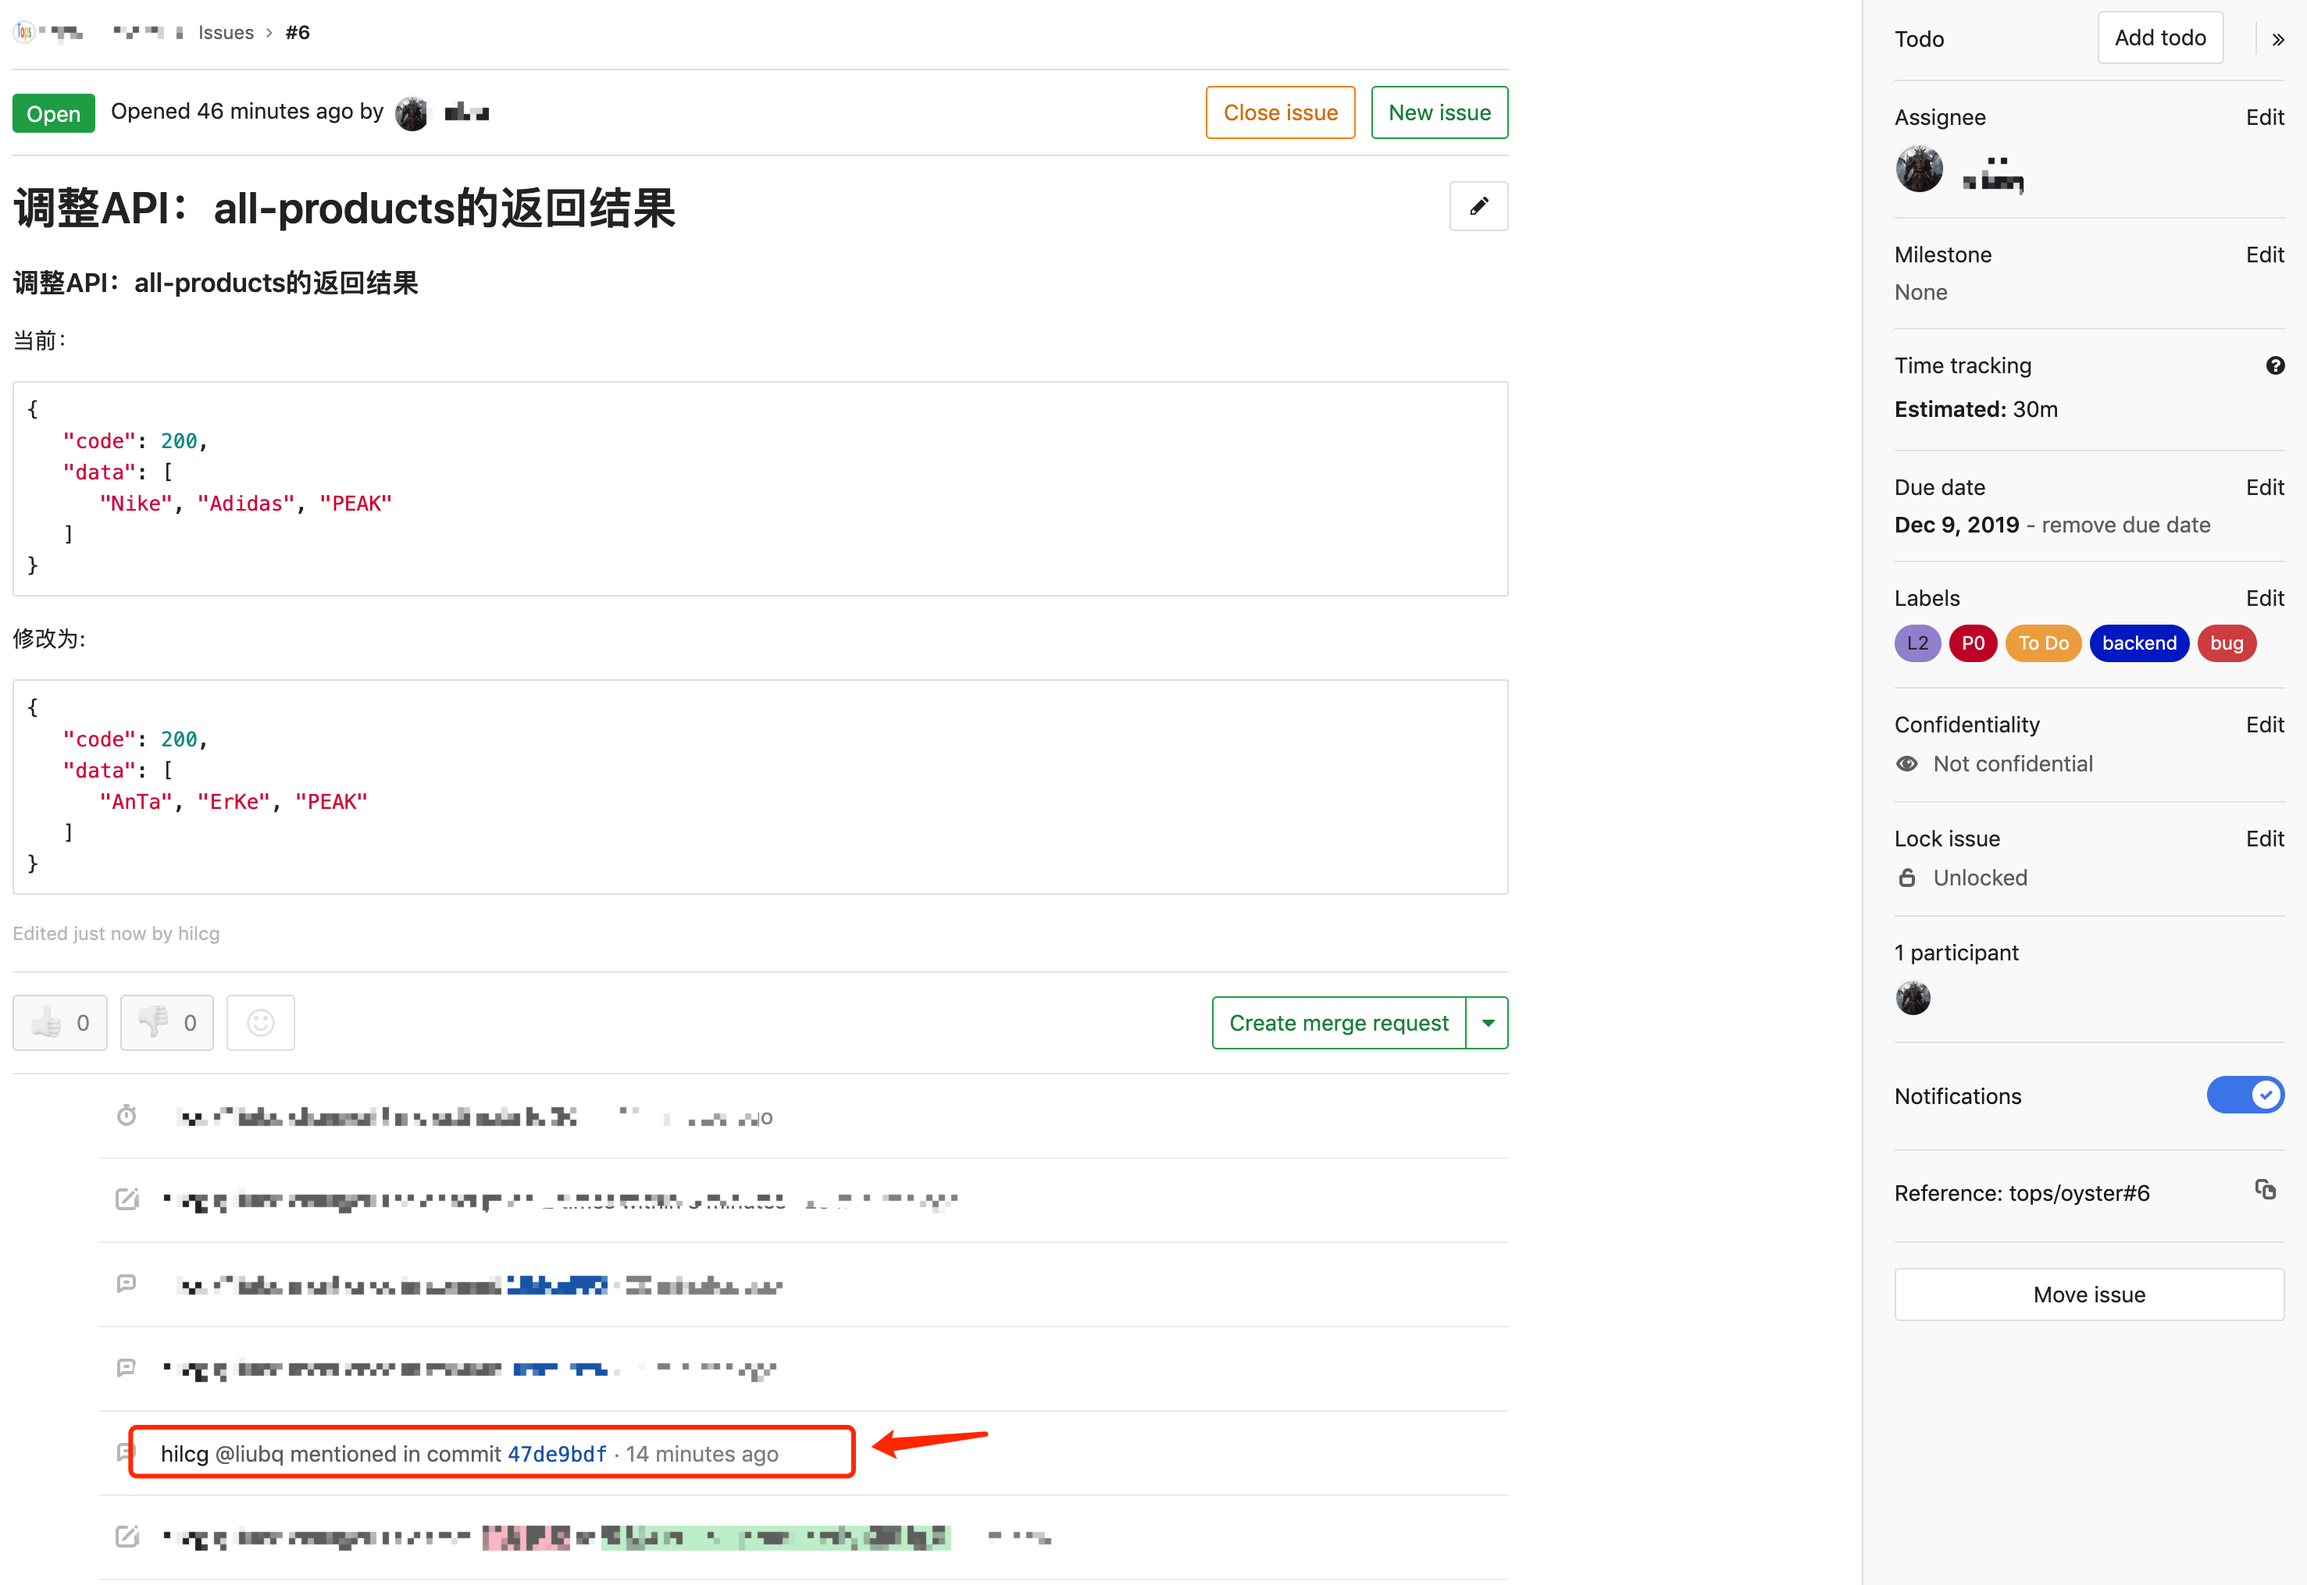
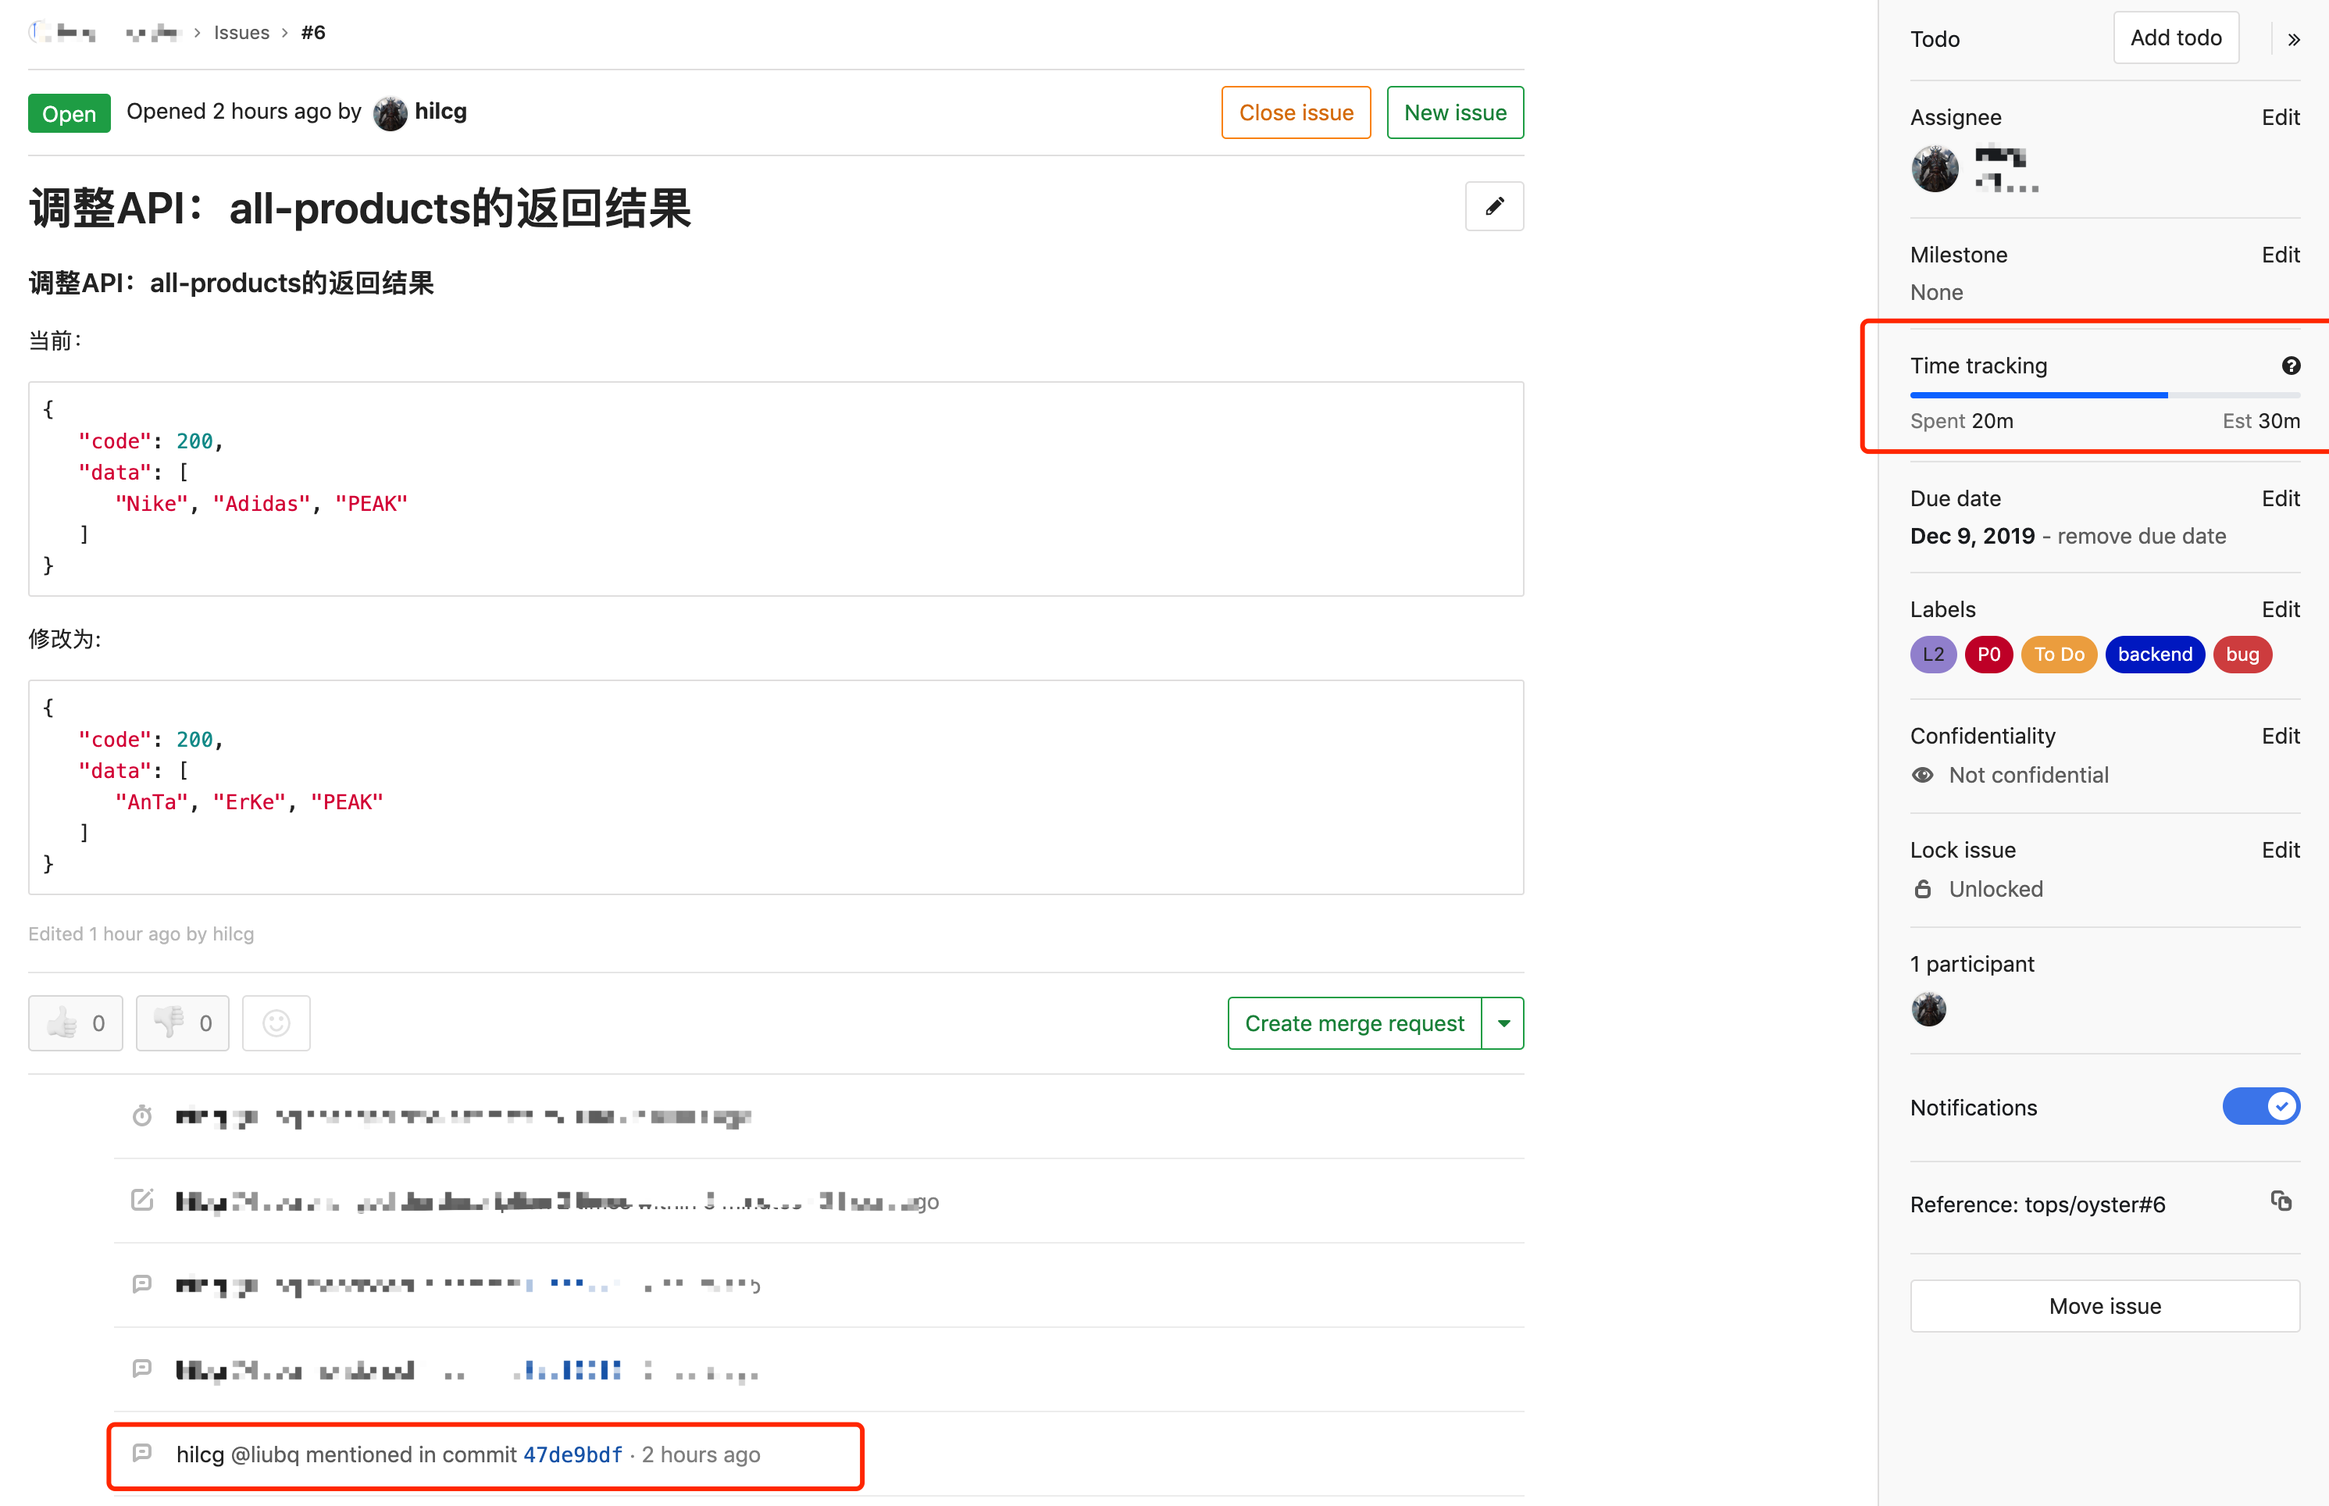
Update image and add desc

diff --git a/devops_practices/code_level/README.md b/devops_practices/code_level/README.md
@@ -86,7 +86,8 @@ after modification:
 
 Resloves: #6
 ```
-1: 在提交的comment中，我们添加上述的注释。Gitlab将关联此提交到编码为#6的任务。
+1: 在提交的comment中，我们添加上述的注释，以及添加了此任务已花费的时间**20m**。  
+Gitlab将关联此提交到编码为#6的任务。
 ![commit](images/commit.png)
 
 2: 点击提交的commit链接，可以跳转到此次提交的详情页。
@@ -134,10 +135,10 @@ ENV APP_VERSION "BUILD_NO"
 
 在日常工作中，如果有多人合作的项目，很容易发生功能冲突。
 
-当某位开发人员编写的功能，可能由于某些原因，被其它人员有意或者无意的修改了，无论是远程协同还是同地办公，都为沟通带来了成本，在传统模式中，首先确认代码提交人：
+当某位开发人员编写的功能，可能由于某些原因，被其它人员有意或者无意的修改了，无论是远程协同还是同地办公，都为沟通带来了成本。在传统模式中，我们先确认代码提交人，然后根据情况选择下一步：
 
 - 同地：若人员在职，当面沟通，讨论方案
-- 同地：人员离职或者请假，无法当面沟通，沟通几乎停滞
+- 人员离职或者请假，无法当面沟通，沟通几乎停滞
 - 异地协同：发送邮件或者通过IM，来回沟通，沟通缓慢
 
 通过上述的情况，可以看出，无论是何种情况，与其它人员之间的沟通是必不可免的。
